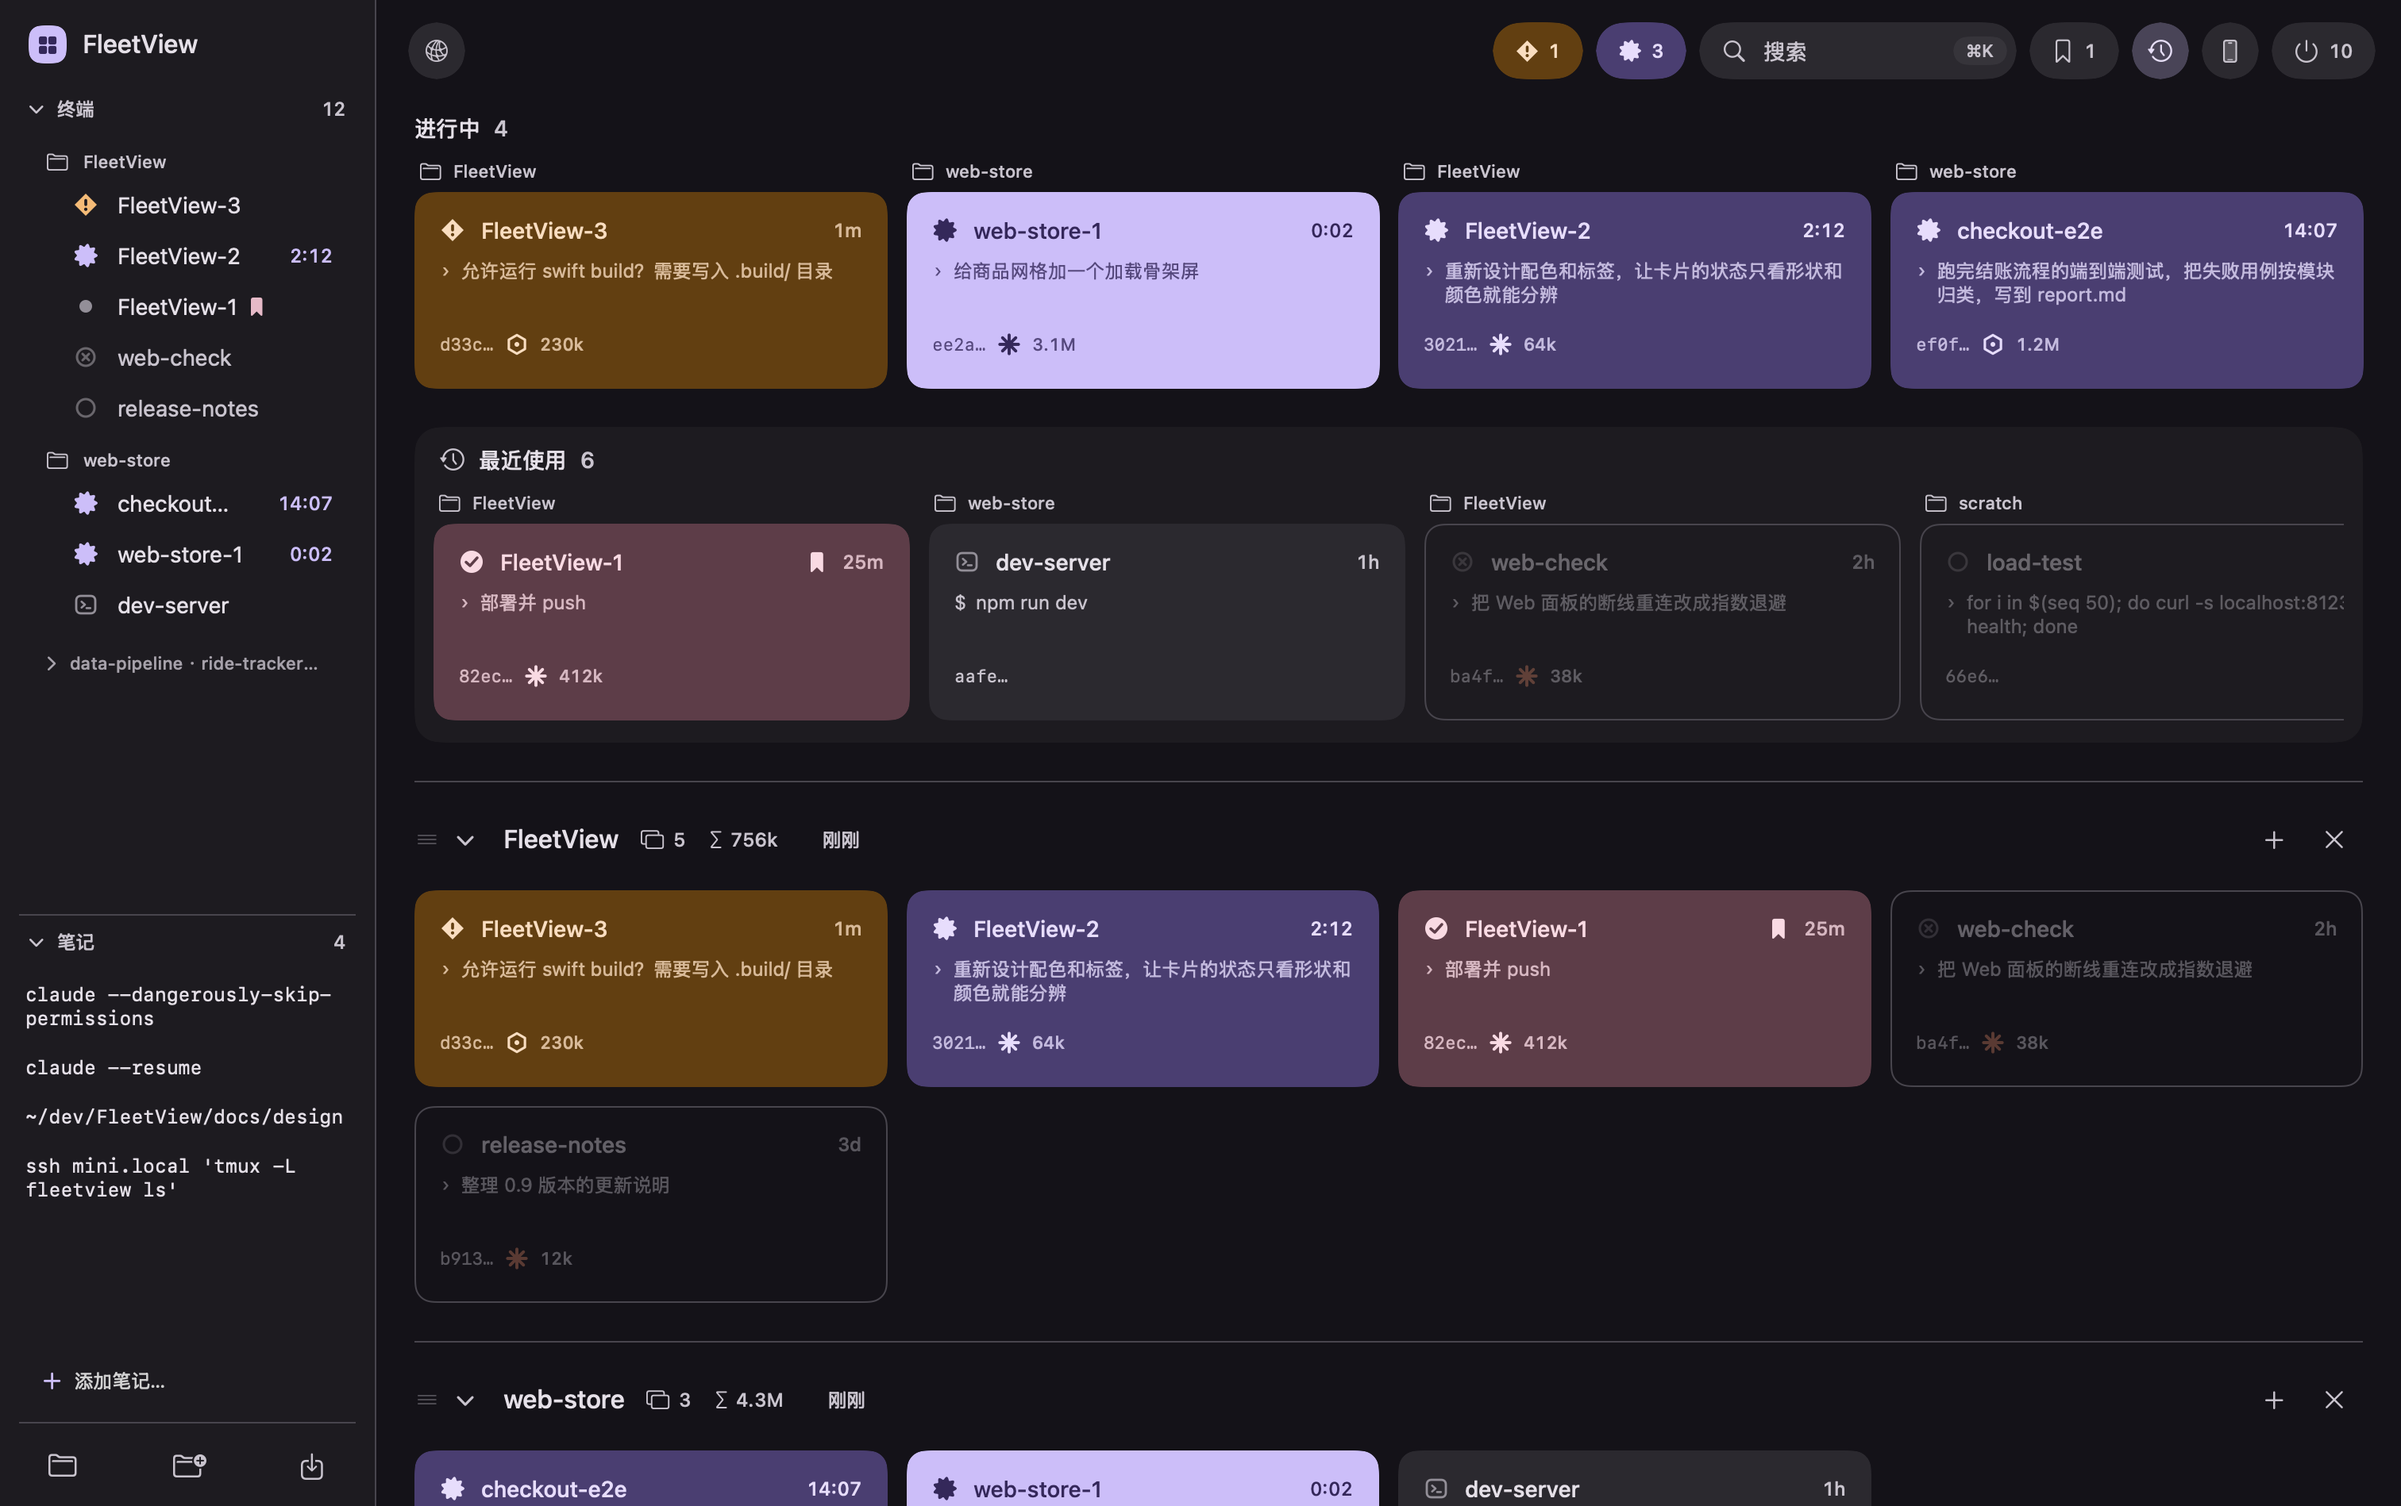
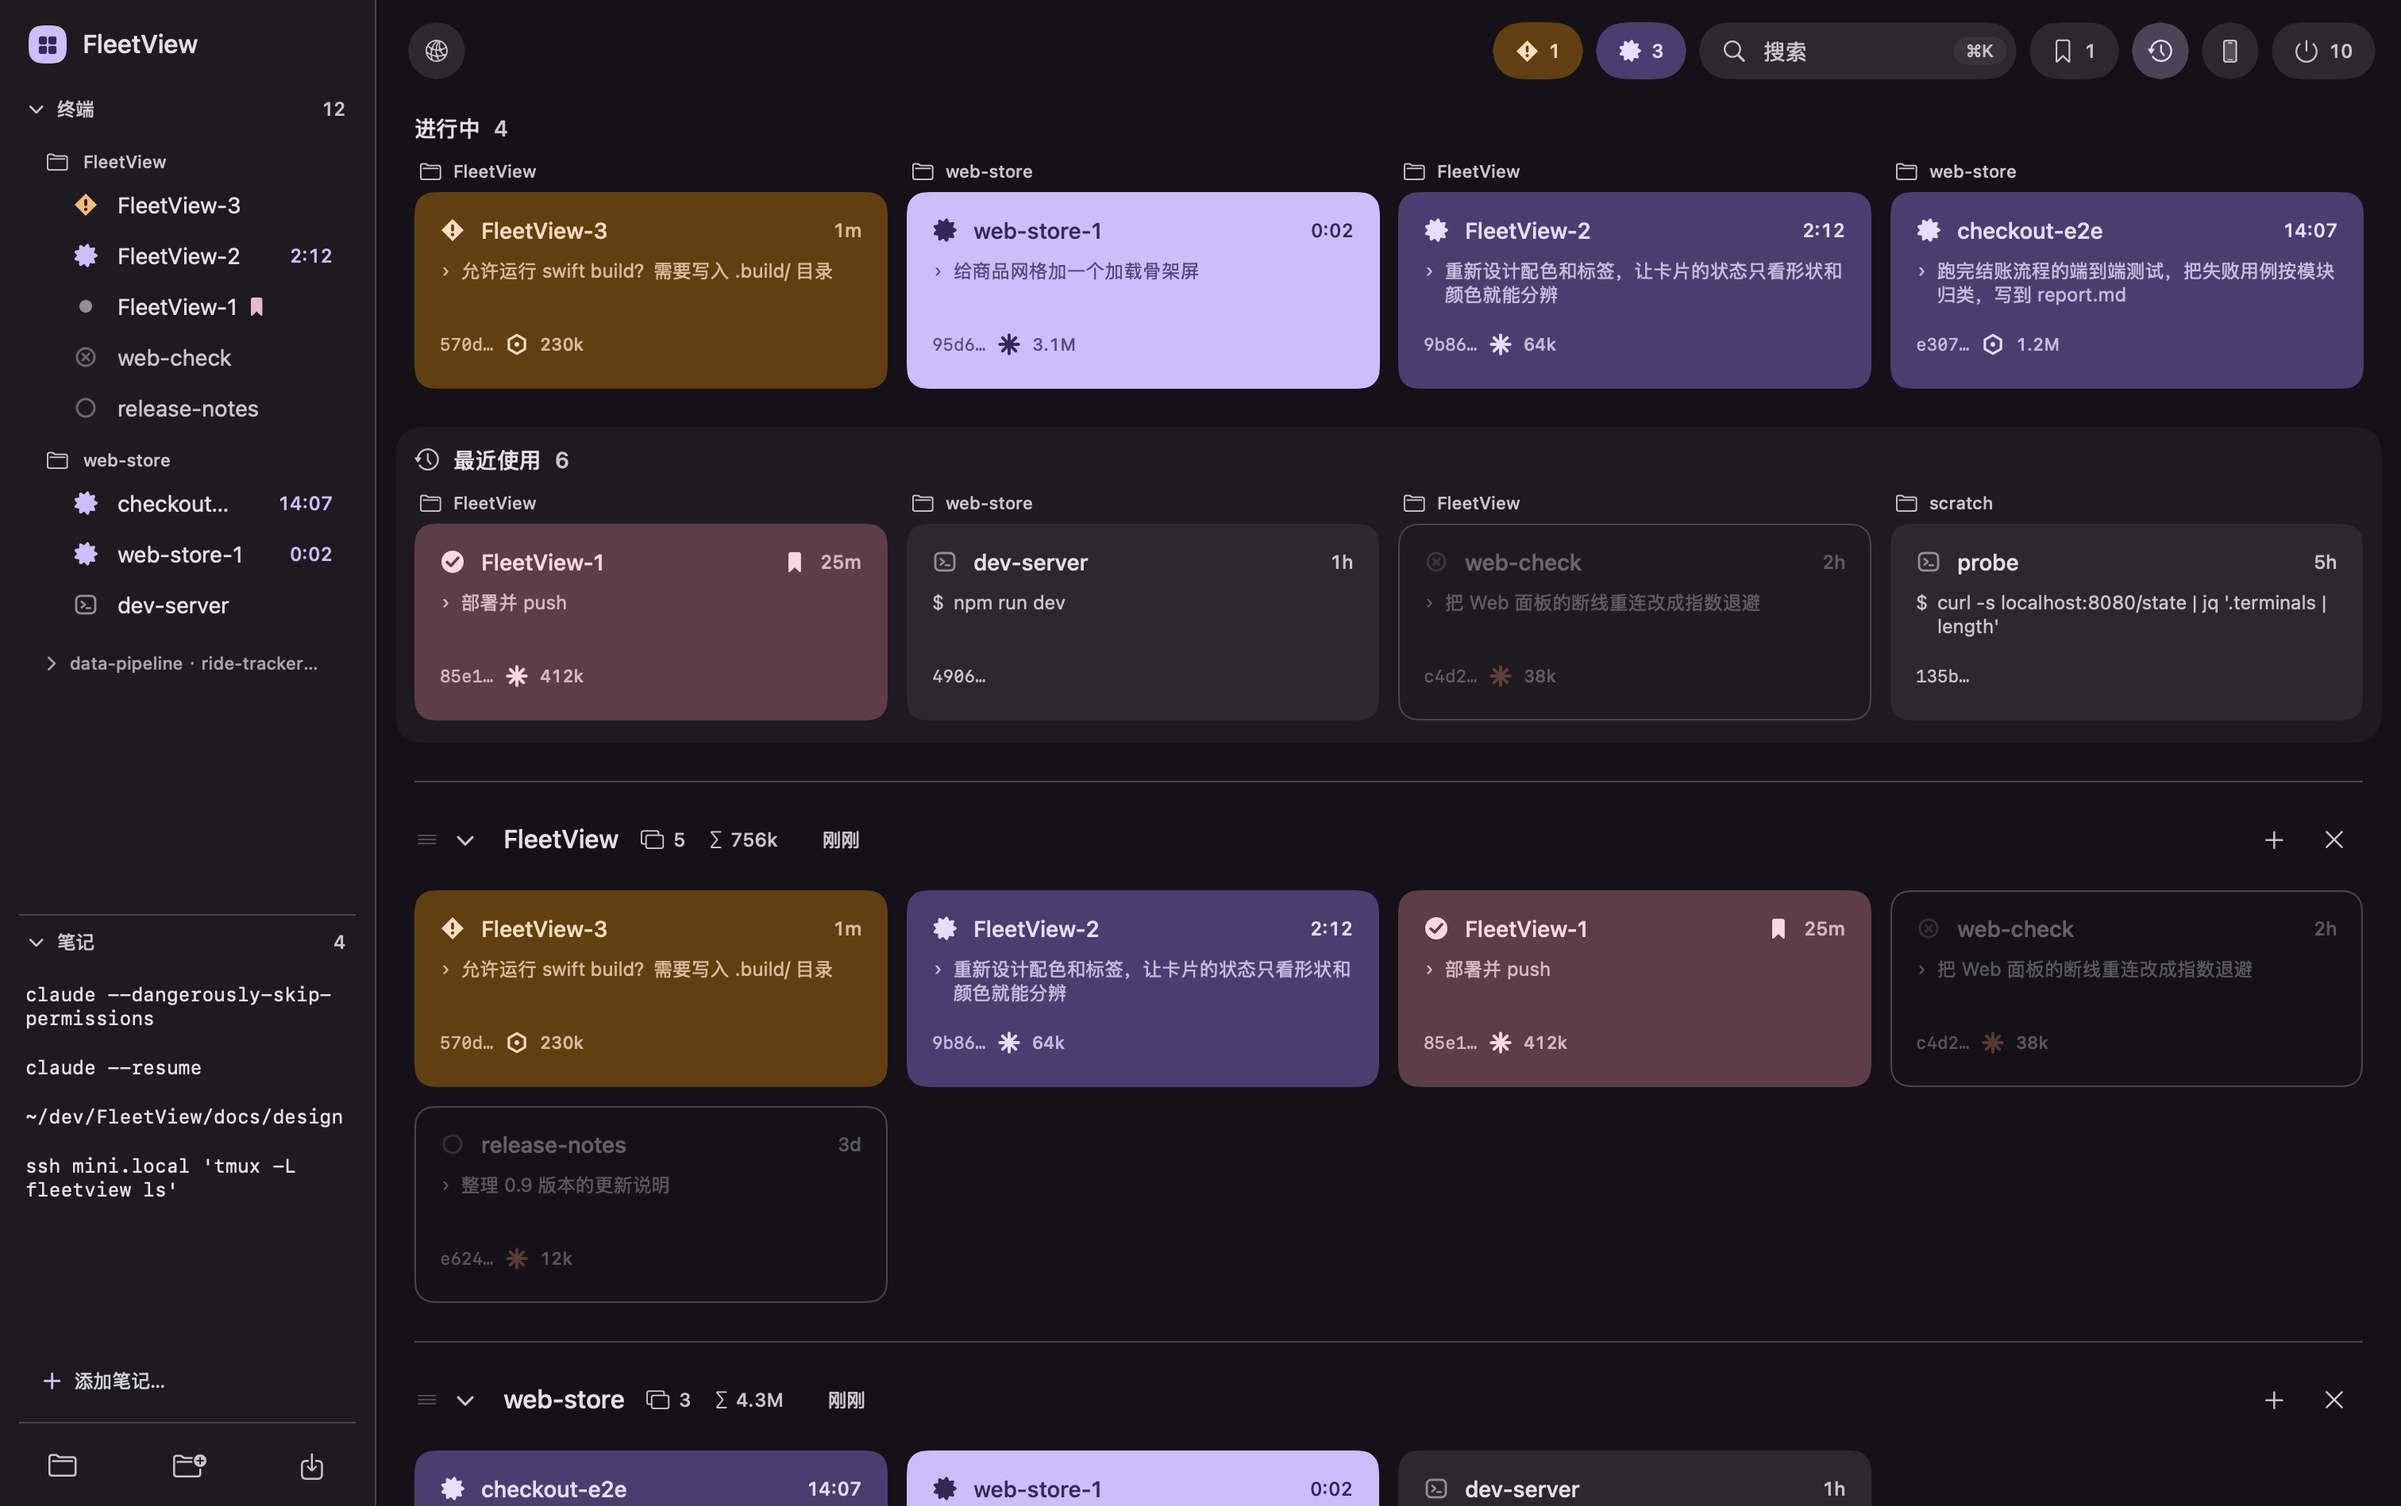
Framed cards are the board's cards: the frame reaches into the margin instead
A group's outline and the recent tray laid their cards out again inside their
own padding, so framed cards were narrower than every other card and their
edges sat off the columns above and below. The frame now reaches past the
grid by exactly its padding (BoardGrid.wrapInset, 12pt; the web's .cluster
likewise), so the cards inside are on the board's columns at the board's
size. The tray, which scrolls sideways, sizes its cards with the width the
adaptive grid would give them (BoardGrid.cardWidth), so its first row lines
up too.

Snapshot mode opens the sample group's project, so the tall shot shows it.

diff --git a/Sources/FleetView/UI/Dashboard.swift b/Sources/FleetView/UI/Dashboard.swift
@@ -935,10 +935,26 @@ struct MainArea: View {
 /// The board's grid, the same everywhere a card is laid out, so a card is the same size wherever it
 /// appears.
 enum BoardGrid {
-    static let columns = [GridItem(.adaptive(minimum: 280, maximum: 380), spacing: 12)]
+    static let minCard: CGFloat = 280
+    static let maxCard: CGFloat = 380
+    static let columns = [GridItem(.adaptive(minimum: minCard, maximum: maxCard), spacing: spacing)]
     static let spacing: CGFloat = 12
-    /// A card in a sideways strip, where there is no grid to size it.
+    /// A card in a sideways strip before the strip has measured itself.
     static let stripCardWidth: CGFloat = 300
+
+    /// How far a frame drawn around cards — a group's outline, the recent tray — reaches past the
+    /// grid on each side: exactly its own inner padding, so the cards inside sit on the board's
+    /// columns at the board's size. Framed cards used to be laid out again inside the frame's
+    /// padding, which made them narrower than every other card and put their edges off the
+    /// columns above and below. The frame gives way instead, into the board's margin.
+    static let wrapInset: CGFloat = 12
+
+    /// A card's width in the grid at this content width — what the adaptive columns work out,
+    /// for a row that is not a grid (the recent tray scrolls sideways).
+    static func cardWidth(in width: CGFloat) -> CGFloat {
+        let n = max(1, Int((width + spacing) / (minCard + spacing)))
+        return min(maxCard, (width - CGFloat(n - 1) * spacing) / CGFloat(n))
+    }
 }
 
 /// A zone's heading: an optional mark, a name, a count. Sentence case — the all-caps labels these
@@ -1046,6 +1062,8 @@ struct ProjectTag: View {
 /// board itself off screen.
 struct RecentStrip: View {
     @EnvironmentObject var state: AppState
+    /// The row's width inside the tray, which is the board grid's width (see `BoardGrid.wrapInset`).
+    @State private var rowWidth: CGFloat = 0
 
     private static let limit = 6
 
@@ -1066,24 +1084,29 @@ struct RecentStrip: View {
         if state.showRecentStrip && !recent.isEmpty {
             VStack(alignment: .leading, spacing: 10) {
                 ZoneHeader(icon: "clock.arrow.circlepath", title: L(.zoneRecent), count: recent.count)
-                    .padding(.horizontal, 4)
                 ScrollView(.horizontal, showsIndicators: false) {
+                    // Cards at the grid's width and spacing, so the first row of them lands on the
+                    // board's columns; the rest scroll.
                     HStack(alignment: .top, spacing: BoardGrid.spacing) {
                         ForEach(recent) { t in
                             VStack(alignment: .leading, spacing: 6) {
                                 ProjectTag(terminal: t)
                                 TerminalCardView(terminal: t)
                             }
-                            .frame(width: BoardGrid.stripCardWidth)
+                            .frame(width: rowWidth > 0 ? BoardGrid.cardWidth(in: rowWidth) : BoardGrid.stripCardWidth)
                         }
                     }
                     // A focus ring that a tight clip would cut.
                     .padding(.vertical, 2)
                 }
             }
-            .padding(12)
+            .frame(maxWidth: .infinity, alignment: .leading)
+            .background(GeometryReader { g in Color.clear.preference(key: TrayWidthKey.self, value: g.size.width) })
+            .onPreferenceChange(TrayWidthKey.self) { rowWidth = $0 }
+            .padding(BoardGrid.wrapInset)
             .background(Theme.surfaceContainerLow)
             .clipShape(RoundedRectangle(cornerRadius: Theme.Radius.sheet))
+            .padding(.horizontal, -BoardGrid.wrapInset)
         }
     }
 }
@@ -1526,7 +1549,7 @@ struct ClusterContainer: View {
                 ForEach(members) { t in TerminalCardView(terminal: t) }
             }
         }
-        .padding(12)
+        .padding(BoardGrid.wrapInset)
         // An outline and nothing else: the group is a frame around cards, not a coloured block.
         .overlay(RoundedRectangle(cornerRadius: Theme.Radius.sheet)
             .strokeBorder(highlighted ? Theme.primary : Theme.outlineVariant, lineWidth: highlighted ? 2 : 1))
@@ -1538,6 +1561,8 @@ struct ClusterContainer: View {
             Color.clear.preference(key: ClusterFramesKey.self,
                                    value: [clusterId: [g.frame(in: .named("fleet"))]])
         })
+        // Out into the margin by its padding, so its cards are the board's cards (BoardGrid.wrapInset).
+        .padding(.horizontal, -BoardGrid.wrapInset)
     }
 
     private func clusterButton(_ symbol: String, help: String, _ action: @escaping () -> Void) -> some View {
@@ -1581,6 +1606,11 @@ struct EmptyState: View {
 // MARK: - Session-tree drag plumbing
 
 /// The fleet board's frame in the "fleet" space — the standalone drop target for tree nodes.
+private struct TrayWidthKey: PreferenceKey {
+    static var defaultValue: CGFloat = 0
+    static func reduce(value: inout CGFloat, nextValue: () -> CGFloat) { value = max(value, nextValue()) }
+}
+
 struct WindowWidthKey: PreferenceKey {
     static var defaultValue: Double = 0
     static func reduce(value: inout Double, nextValue: () -> Double) { value = max(value, nextValue()) }

diff --git a/Sources/FleetView/Remote/WebDashboardPage.swift b/Sources/FleetView/Remote/WebDashboardPage.swift
@@ -318,7 +318,9 @@ enum WebDashboardPage {
   .card.dragging{background:transparent;box-shadow:none;transform:none;outline:1.5px dashed var(--outline);outline-offset:-1.5px}
   .card.dragging > *{visibility:hidden}
   /* A group of terminals on one task: a frame around cards, not a coloured block. */
-  .cluster{border-radius:16px;padding:12px;box-shadow:inset 0 0 0 1px var(--outlineVariant);margin-bottom:12px}
+  /* Out into the margin by its own padding, so the cards inside are on the project grid's columns at
+     its size — laid out again inside the padding they were narrower and off the columns around them. */
+  .cluster{border-radius:16px;padding:12px;box-shadow:inset 0 0 0 1px var(--outlineVariant);margin:0 -12px 12px}
   .cluster .chead{display:flex;align-items:center;gap:8px;min-height:28px;margin-bottom:12px;color:var(--sub);min-width:0}
   .cluster .cname{color:var(--text);min-width:0;white-space:nowrap;overflow:hidden;text-overflow:ellipsis}
   /* A full-width rule above every project is what tells the sections apart from 进行中 above them. */

diff --git a/Sources/FleetView/Support/Snapshot.swift b/Sources/FleetView/Support/Snapshot.swift
@@ -192,6 +192,7 @@ enum Snapshot {
                              "同一个任务换个做法：只重跑失败的那几天"), tokens: 3_700_000)
         d2.clusterId = cluster.id
         s.clusters = [cluster]
+        s.wokenProjects = [data.id]       // so the group's outline is in the tall shot
         s.terminals = [
             t(fv, "FleetView-3", .needsYou, .codex, ago: 60,
               prompt: w("Allow swift build? It needs to write to .build/", "允许运行 swift build？需要写入 .build/ 目录"),
